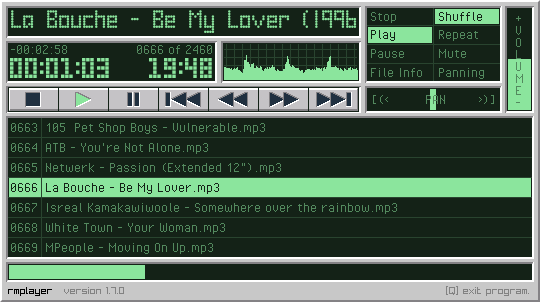
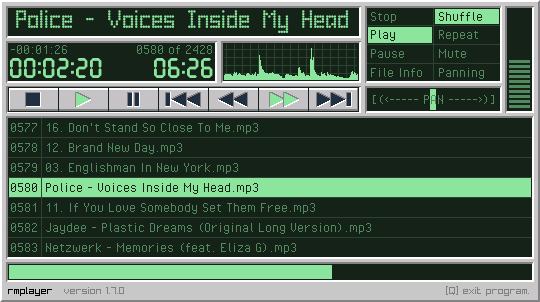
rmplayer: final version pan and volume bar

diff --git a/rmplayer/rmplayer.c b/rmplayer/rmplayer.c
@@ -747,14 +747,16 @@ if (!isMini) {// when mini view is active fileselectio is disabled
             DrawLine(367,64,500,64,borderColor);
 
             //volume bar
-                DrawRectangleRec((Rectangle){508,109-(volume*100),23,(volume*100) +1 },accentColor);
-                char tmp[] = "+VOLUME-";
-                for (int i = 0; i < strlen(tmp); ++i)
-                    DrawTextEx(textFnt,TextFormat("%c", tmp[i]),(Vector2){515,10+i*12},16,0, textColor);
+                //DrawRectangleRec((Rectangle){508,109-(volume*100),23,(volume*100) + 1 },accentColor);
+                for (int i = 0; i < (volume*100); i+=5) DrawRectangleLinesEx((Rectangle){509,105-i,21,3},2,(volume > 0.75f)?accentColor:textColor);
+
+                // char tmp[] = "+VOLUME-";
+                // for (int i = 0; i < strlen(tmp); ++i)
+                //     DrawTextEx(textFnt,TextFormat("%c", tmp[i]),(Vector2){515,10+i*12},16,0, textColor);
 
             // pan slider
             DrawRectangleLinesEx((Rectangle){(int)(368 + (pan + 1.0f)/2.0f*125), 89, 6, 21},3,accentColor);
-            DrawTextEx(textFnt,"[(<         PAN        >)]",(Vector2){370,91},16,0, textColor);
+            DrawTextEx(textFnt,"[(<----- PAN ----->)]",(Vector2){370,91},16,0, textColor);
 
             // song title
             BeginScissorMode( (int)displayArea.x, (int)displayArea.y, (int)displayArea.width, (int)displayArea.height);
@@ -789,13 +791,13 @@ if (!isMini) {// when mini view is active fileselectio is disabled
             DrawTextEx(digitFnt,TextFormat("%02i:%02i", t->tm_hour, t->tm_min),(Vector2){215-clockSize.x, 58}, 20,0, accentColor);
 
             // a sort of visualizer : giusto per vivacizzare....
-            BeginScissorMode(223,43,135,80);
+            BeginScissorMode(223,44,135,80);
                 // // grid lines
                 for (int h = 0; h<4 ; h++) DrawLine(224, 50 + (h*8), 357, 50 + (h*8), borderColor);
                 for (int v = 0; v < 17; v++) DrawLine(227 + (v*8), 44, 227 + (v*8), 79, borderColor);
                 // grid points
-                // for (int h = 0; h<138 ; h+=3) 
-                //     for (int v = 0; v < 36; v+=3)
+                // for (int h = 0; h<138 ; h+=4) 
+                //     for (int v = 0; v < 36; v+=4)
                 //         DrawPixel(225 + h, 45 + v,textColor);
                 // visualizer
                 for (int i = 0; i < 134; ++i) //cambiare questo valore anche nella funzione relativa
